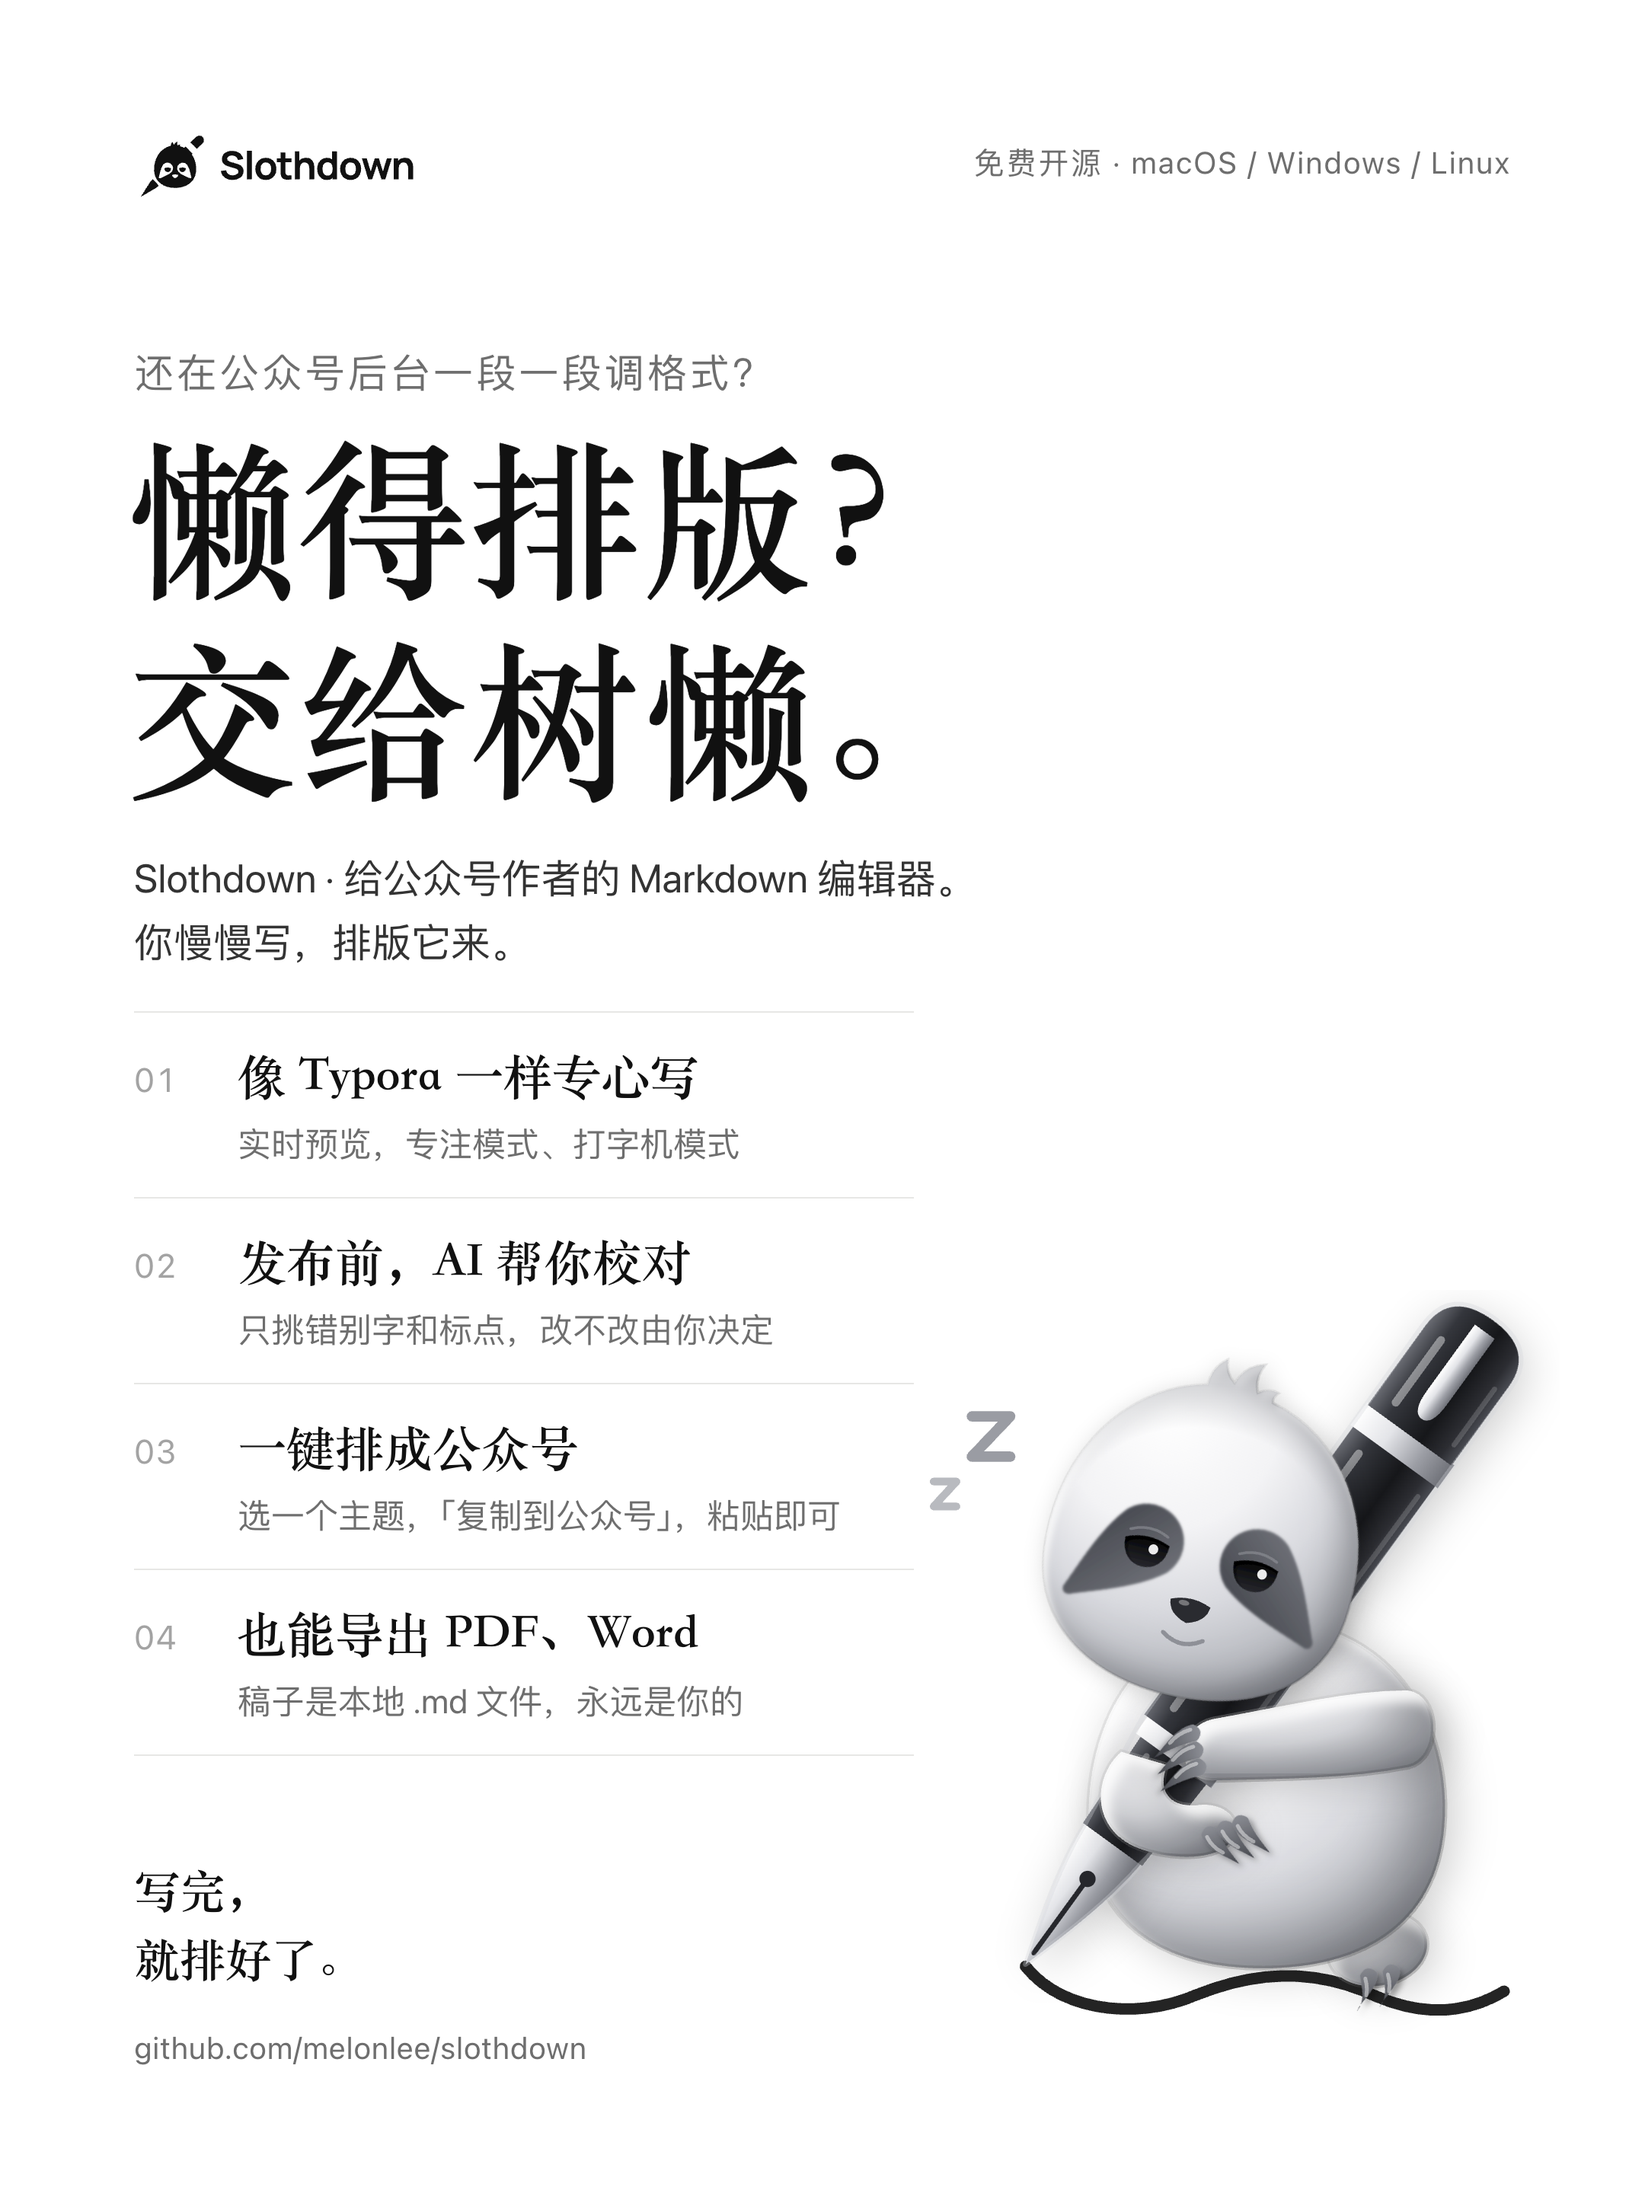
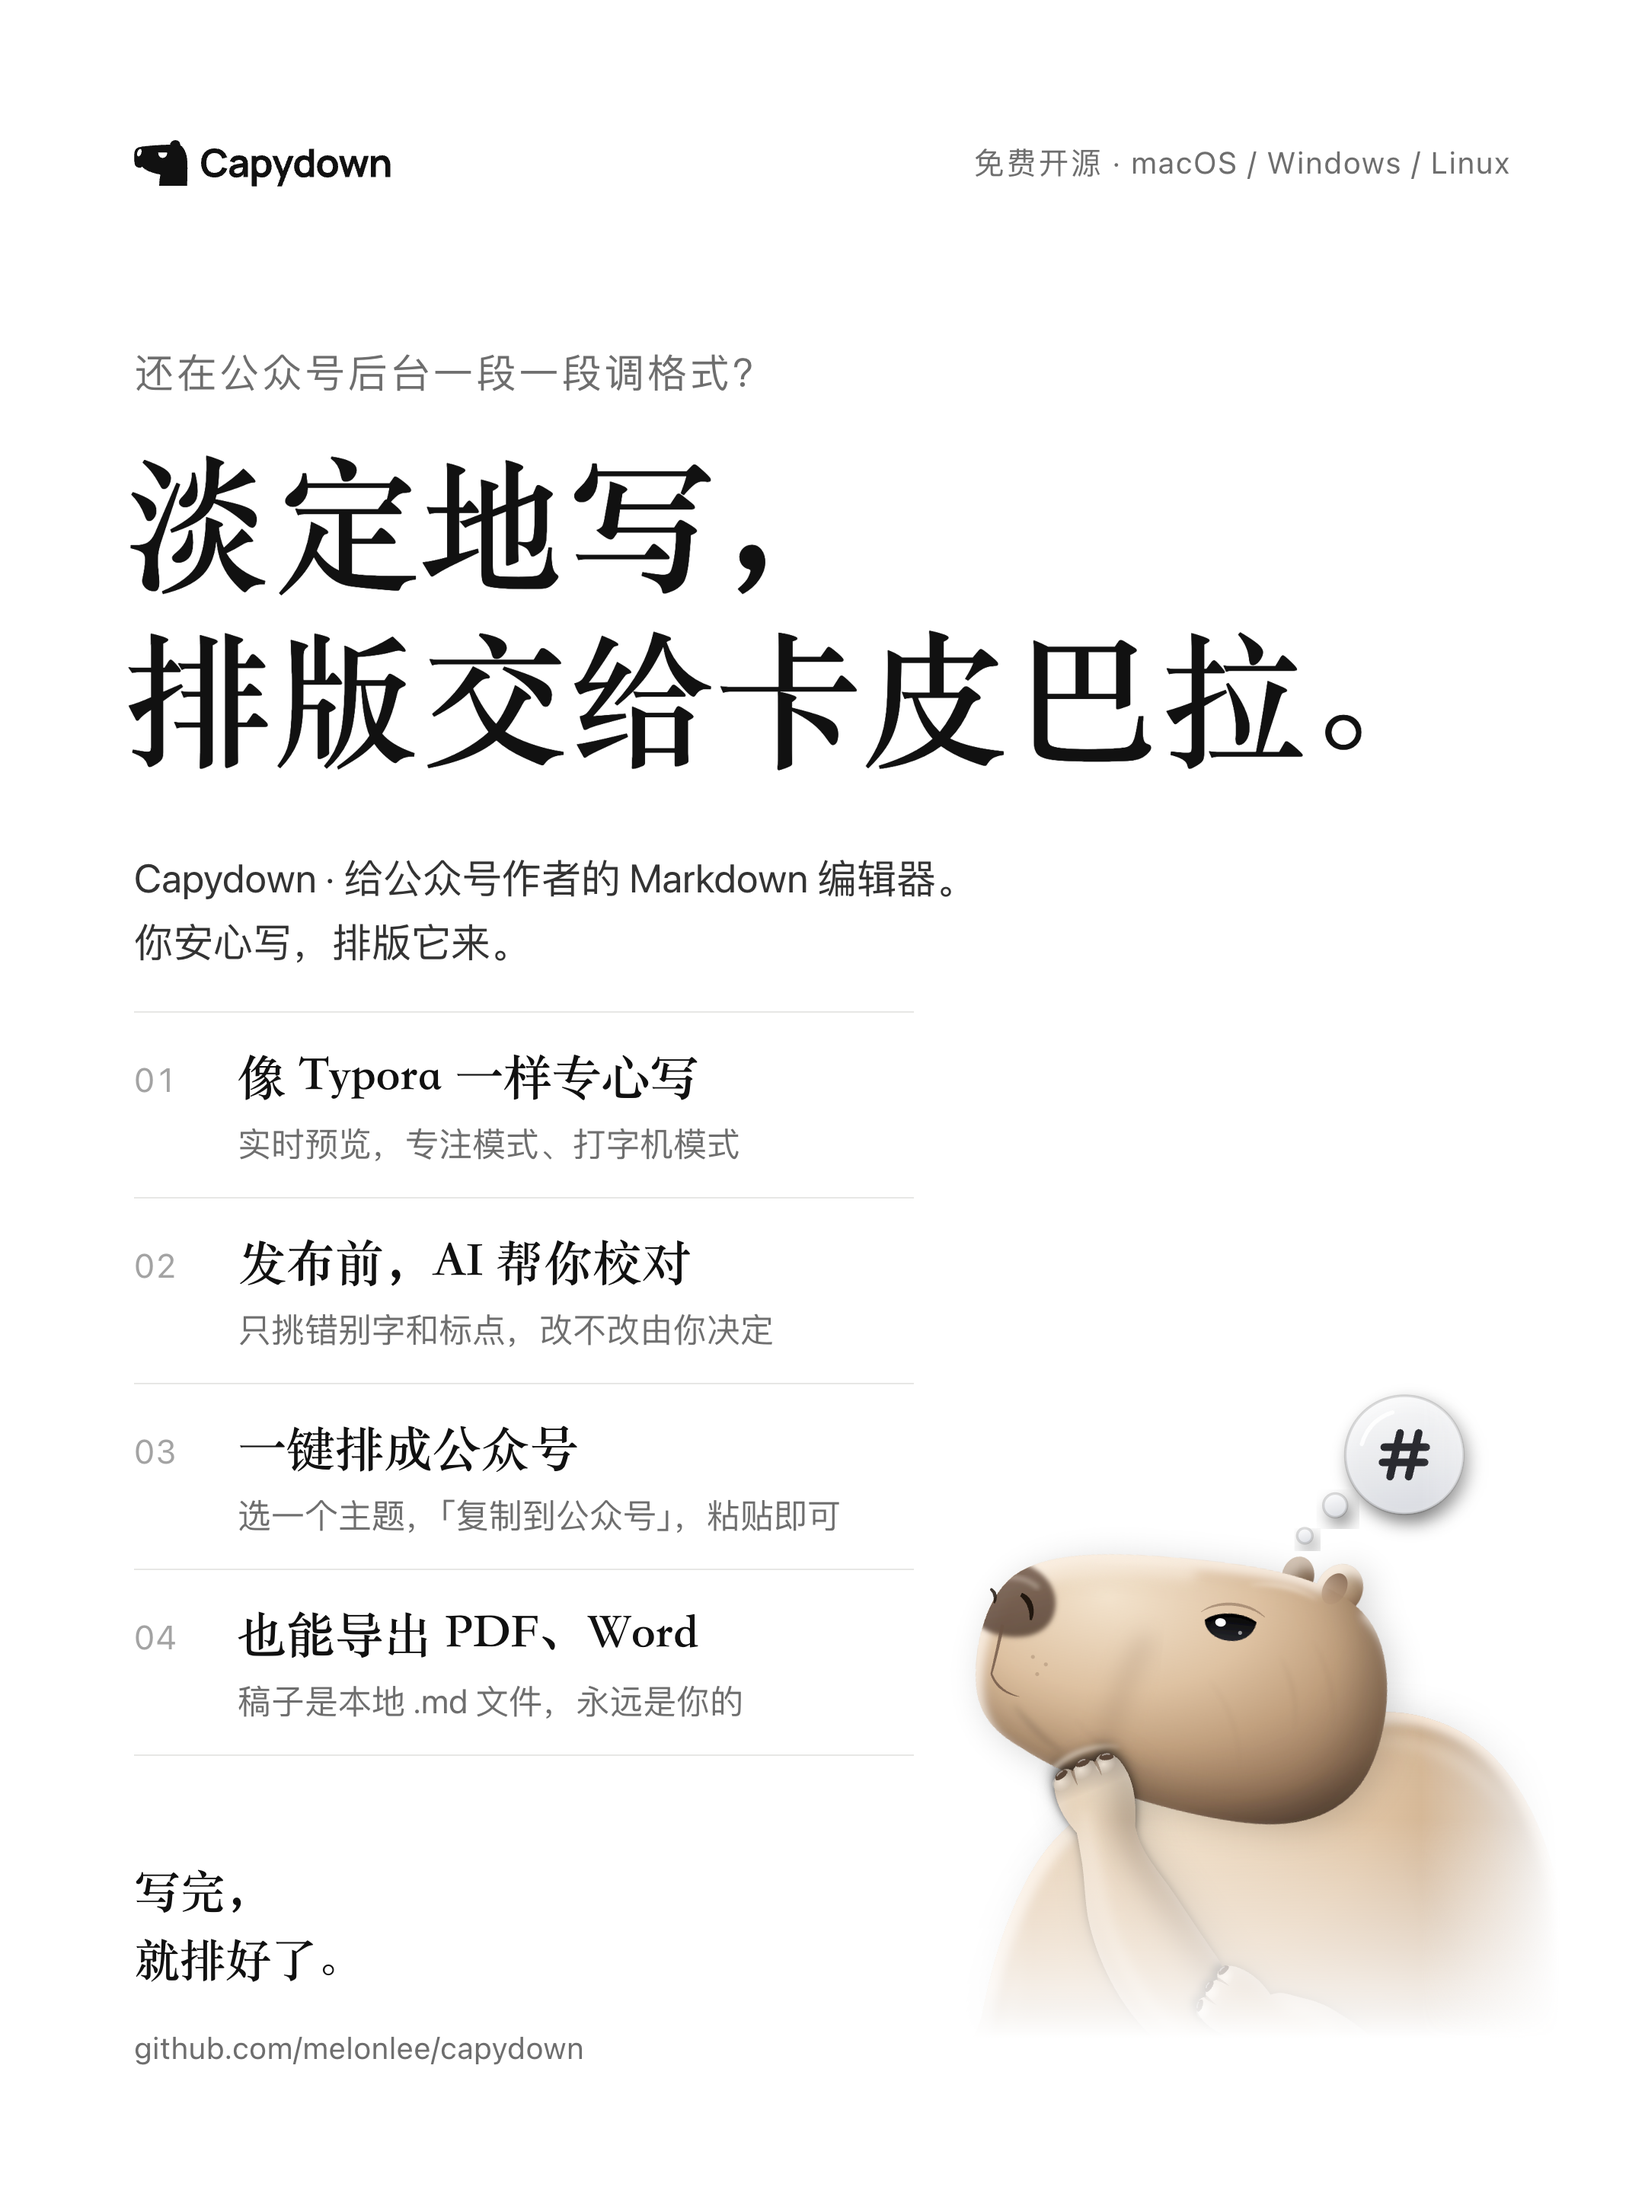
brand: marketing images, welcome/splash screenshots for Capydown
Banner, social preview, share card, poster (headline 「淡定地写，排版交给卡皮巴拉。」),
workflow with the thinking capybara; retaken 10-welcome / 11-splash and website WebP.

diff --git a/docs/assets/brand/src/poster-xhs.html b/docs/assets/brand/src/poster-xhs.html
@@ -8,26 +8,26 @@
   .lockup { height: 46px; }
   .meta { font-size: 20px; color: var(--muted); letter-spacing: .06em; }
   .eyebrow { position: absolute; left: 88px; top: 226px; font-size: 26px; letter-spacing: .08em; }
-  h1 { position: absolute; left: 82px; top: 270px; font-size: 112px; line-height: 1.18; letter-spacing: .02em; }
+  h1 { position: absolute; left: 82px; top: 282px; font-size: 96px; line-height: 1.2; letter-spacing: .02em; white-space: nowrap; }
   .lede { position: absolute; left: 88px; top: 556px; font-size: 26px; line-height: 1.6; color: var(--ink-2); }
   ol { position: absolute; left: 88px; right: 480px; top: 664px; list-style: none; border-top: 1px solid var(--line); }
   li { display: grid; grid-template-columns: 68px 1fr; align-items: baseline; padding: 18px 0; border-bottom: 1px solid var(--line); }
   .n { font-size: 22px; color: var(--faint); font-variant-numeric: tabular-nums; letter-spacing: .04em; }
   .t { font-family: var(--font-serif); font-weight: 700; font-size: 32px; }
   .d { grid-column: 2; margin-top: 6px; font-size: 22px; line-height: 1.55; color: var(--muted); }
-  /* hero: the pen-hugging, dozing sloth (the app icon's mascot), its ink line resting on the bottom margin */
+  /* hero: the thinking capybara (the app icon's mascot) with its # thought bubble */
   .peek { position: absolute; right: 56px; bottom: 96px; width: 440px; }
   .say { position: absolute; left: 88px; bottom: 132px; font-family: var(--font-serif); font-weight: 700; font-size: 30px; line-height: 1.5; }
   .url { position: absolute; left: 88px; bottom: 84px; font-size: 20px; color: var(--muted); letter-spacing: .03em; }
 </style></head>
 <body>
   <div class="top">
-    <img class="lockup" src="../logo-lockup-light.svg" alt="Slothdown">
+    <img class="lockup" src="../logo-lockup-light.svg" alt="Capydown">
     <span class="meta">免费开源 · macOS / Windows / Linux</span>
   </div>
   <p class="eyebrow muted">还在公众号后台一段一段调格式？</p>
-  <h1 class="serif">懒得排版？<br>交给树懒。</h1>
-  <p class="lede">Slothdown · 给公众号作者的 Markdown 编辑器。<br>你慢慢写，排版它来。</p>
+  <h1 class="serif">淡定地写，<br>排版交给卡皮巴拉。</h1>
+  <p class="lede">Capydown · 给公众号作者的 Markdown 编辑器。<br>你安心写，排版它来。</p>
   <ol>
     <li><span class="n">01</span><span class="t">像 Typora 一样专心写</span><span class="d">实时预览，专注模式、打字机模式</span></li>
     <li><span class="n">02</span><span class="t">发布前，AI 帮你校对</span><span class="d">只挑错别字和标点，改不改由你决定</span></li>
@@ -35,6 +35,6 @@
     <li><span class="n">04</span><span class="t">也能导出 PDF、Word</span><span class="d">稿子是本地 .md 文件，永远是你的</span></li>
   </ol>
   <p class="say">写完，<br>就排好了。</p>
-  <p class="url">github.com/melonlee/slothdown</p>
-  <img class="peek" src="../sloth-pen-art.svg" alt="">
+  <p class="url">github.com/melonlee/capydown</p>
+  <img class="peek" src="../capybara-art.svg" alt="">
 </body></html>

diff --git a/docs/assets/brand/src/share-card.html b/docs/assets/brand/src/share-card.html
@@ -6,21 +6,21 @@
   body { width: 1200px; height: 630px; }
   .right { position: absolute; left: 700px; top: 72px; width: 440px; display: flex; flex-direction: column; }
   .lockup { height: 36px; align-self: flex-start; }
-  h1 { margin-top: 52px; font-size: 50px; line-height: 1.3; }
+  h1 { margin-top: 52px; font-size: 46px; line-height: 1.3; white-space: nowrap; }
   .sub { margin-top: 22px; font-size: 18px; line-height: 1.7; color: var(--muted); }
   .foot { position: absolute; left: 700px; bottom: 44px; font-size: 14px; color: var(--muted); letter-spacing: .04em; }
-  /* the pen-hugging sloth dozes in the bottom-right corner */
+  /* the thinking capybara sits in the bottom-right corner */
   .peek { position: absolute; right: 44px; bottom: 34px; width: 176px; }
   .shot { position: absolute; left: -300px; top: 72px; }
 </style></head>
 <body>
   <div class="right">
-    <img class="lockup" src="../logo-lockup-light.svg" alt="Slothdown">
-    <h1 class="serif">懒得排版？<br>交给树懒。</h1>
+    <img class="lockup" src="../logo-lockup-light.svg" alt="Capydown">
+    <h1 class="serif">淡定地写，<br>排版交给卡皮巴拉。</h1>
     <p class="sub">像 Typora 一样专心写 Markdown，<br>一键排成公众号，发布前让 AI 再校对一遍。</p>
   </div>
   <p class="foot">免费开源 · macOS / Windows / Linux</p>
-  <img class="peek" src="../sloth-pen-art.svg" alt="">
+  <img class="peek" src="../capybara-art.svg" alt="">
   <!-- proofreading panel; the window bleeds off the left and bottom edges -->
   <div class="shot win">
     <div class="crop" style="--x:0; --y:0; --w:1440; --h:900; --cw:920"><img src="../../screenshots/08-proofread.png"></div>

diff --git a/docs/assets/brand/src/contact-sheet.html b/docs/assets/brand/src/contact-sheet.html
@@ -1,5 +1,5 @@
 <!doctype html>
-<!-- Slothdown 品牌检查表：单色标志在 16–512 px、浅色 / 深色背景下的可读性，字标、组合标志、应用图标（完整 / 头 + 钢笔的小尺寸版）、吉祥物（抱着钢笔打盹的树懒）。 -->
+<!-- Capydown 品牌检查表：单色标志（卡皮巴拉侧面头像）在 16–512 px、浅色 / 深色背景下的可读性，字标、组合标志、应用图标（完整 / 头 + 托腮爪的小尺寸版）、吉祥物（托腮思考的卡皮巴拉）。 -->
 <html><head><meta charset="utf-8"><style>
 body{margin:0;font:12px -apple-system,sans-serif;color:#888}
 .band{display:flex;align-items:flex-end;gap:36px;padding:36px 40px}
@@ -12,8 +12,8 @@ body{margin:0;font:12px -apple-system,sans-serif;color:#888}
 <div class="wide light"><img src="../logo-lockup-light.svg" height="64"><img src="../logo-lockup-icon-light.svg" height="72"><img src="../logo-wordmark-light.svg" height="40"></div>
 <div class="wide dark"><img src="../logo-lockup-dark.svg" height="64"><img src="../logo-lockup-icon-dark.svg" height="72"><img src="../logo-wordmark-dark.svg" height="40"></div>
 <div class="band paper" id="i"></div>
-<div class="wide light"><img src="../sloth-pen-art.svg" height="200"></div>
-<div class="wide dark"><img src="../sloth-pen-art-dark.svg" height="200"></div>
+<div class="wide light"><img src="../capybara-art.svg" height="200"></div>
+<div class="wide dark"><img src="../capybara-art-dark.svg" height="200"></div>
 <script>
 const sizes=[16,32,64,128,512]
 for (const [id,f] of [['l','../logo-mark.svg'],['d','../logo-mark-dark.svg']])

diff --git a/docs/assets/brand/src/social-preview.html b/docs/assets/brand/src/social-preview.html
@@ -7,14 +7,14 @@
   .lockup { position: absolute; left: 50%; top: 60px; transform: translateX(-50%); height: 46px; }
   h1 { position: absolute; left: 0; right: 0; top: 146px; font-size: 44px; line-height: 1.3; }
   .sub { position: absolute; left: 0; right: 0; top: 218px; font-size: 18px; color: var(--muted); letter-spacing: .02em; }
-  .peek { position: absolute; left: 1150px; bottom: 26px; width: 120px; z-index: 2; } /* dozing just outside the window's right edge */
+  .peek { position: absolute; left: 1150px; bottom: 26px; width: 120px; z-index: 2; } /* thinking just outside the window's right edge */
   .shot { position: absolute; left: 50%; top: 290px; transform: translateX(-50%); z-index: 1; }
 </style></head>
 <body>
-  <img class="lockup" src="../logo-lockup-light.svg" alt="Slothdown">
+  <img class="lockup" src="../logo-lockup-light.svg" alt="Capydown">
   <h1 class="serif">像 Typora 一样专心写，一键排成公众号。</h1>
   <p class="sub">Markdown 实时预览 · 公众号主题排版 · 发布前 AI 校对 · 导出 PDF / Word · 免费开源</p>
-  <img class="peek" src="../sloth-pen-art.svg" alt="">
+  <img class="peek" src="../capybara-art.svg" alt="">
   <div class="shot win">
     <div class="crop" style="--x:0; --y:0; --w:1440; --h:900; --cw:1000"><img src="../../screenshots/06-wechat.png"></div>
   </div>

diff --git a/docs/assets/brand/src/banner.html b/docs/assets/brand/src/banner.html
@@ -8,17 +8,17 @@
   .lockup { height: 40px; width: auto; align-self: flex-start; }
   h1 { margin-top: 38px; font-size: 38px; line-height: 1.42; }
   .sub { margin-top: 18px; font-size: 16px; line-height: 1.6; color: var(--muted); }
-  /* the mascot (pen-hugging, dozing sloth) dozes between the copy and the app window */
+  /* the mascot (the thinking capybara, # bubble and all) sits between the copy and the app window */
   .peek { position: absolute; left: 492px; bottom: 26px; width: 164px; z-index: 2; }
   .shot { position: absolute; left: 676px; top: 100px; z-index: 1; }
 </style></head>
 <body>
   <div class="left">
-    <img class="lockup" src="../logo-lockup-light.svg" alt="Slothdown">
+    <img class="lockup" src="../logo-lockup-light.svg" alt="Capydown">
     <h1 class="serif">像 Typora 一样专心写，<br>一键排成公众号。</h1>
     <p class="sub">给公众号作者的 Markdown 编辑器<br>发布前 AI 校对 · 导出 PDF / Word · 免费开源</p>
   </div>
-  <img class="peek" src="../sloth-pen-art.svg" alt="">
+  <img class="peek" src="../capybara-art.svg" alt="">
   <!-- bleeds off the right and bottom edges on purpose -->
   <div class="shot win">
     <div class="crop" style="--x:0; --y:0; --w:1060; --h:700; --cw:720"><img src="../../screenshots/01-writing.png"></div>

diff --git a/docs/assets/brand/src/workflow.html b/docs/assets/brand/src/workflow.html
@@ -20,7 +20,7 @@
 <body>
   <header>
     <h1 class="serif">从第一行字到群发，一个窗口</h1>
-    <p>Slothdown 的写作流程</p>
+    <p>Capydown 的写作流程</p>
   </header>
   <div class="steps">
     <div class="step">
@@ -44,5 +44,5 @@
       <p class="d">一键复制粘贴到后台；也能导出 PDF · Word</p>
     </div>
   </div>
-  <img class="peek" src="../sloth-pen-art.svg" alt="">
+  <img class="peek" src="../capybara-art.svg" alt="">
 </body></html>

diff --git a/docs/assets/brand/src/_base.css b/docs/assets/brand/src/_base.css
@@ -1,5 +1,5 @@
 /*
- * Slothdown marketing tokens — strict monochrome.
+ * Capydown marketing tokens — strict monochrome.
  * The only colour allowed on a marketing image is whatever appears inside a real
  * screenshot (公众号 article themes). Typography does the work: a Chinese serif for
  * headlines, PingFang / system sans for everything else.
